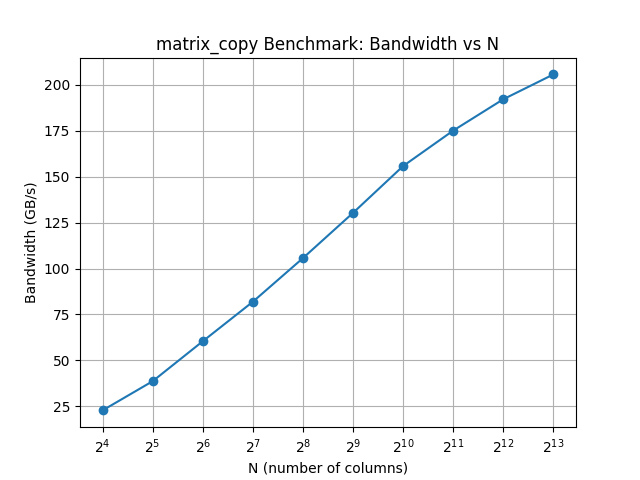
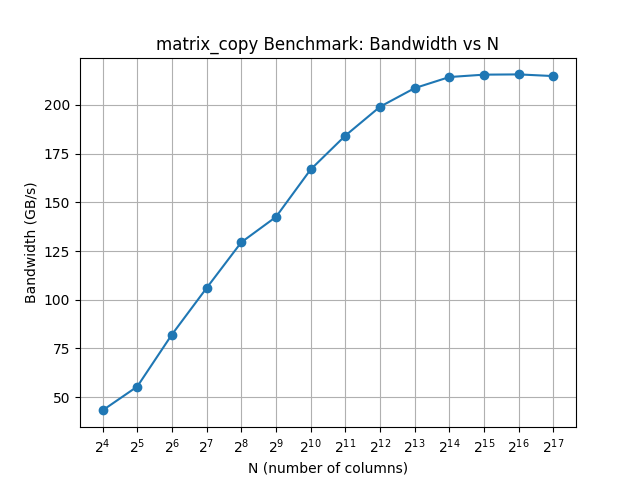
finish week 2

diff --git a/assignments/02_assignment/src/task4.py b/assignments/02_assignment/src/task4.py
@@ -40,10 +40,12 @@ def matrix_copy(A, B, tile_M: ct.Constant[int], tile_N: ct.Constant[int]):
     
     ct.store(B, index=index, tile=A_block)
 
-def main():
-    grid, A, B, tile_M, tile_N = setup()
+def main(**kwargs):
+    grid, A, B, tile_M, tile_N = setup(**kwargs)
     run(grid, A, B, tile_M, tile_N)
     assert torch.allclose(B, A), "Task 4 failed: B does not match A!"
 
 if __name__ == "__main__":
     main()
+    # test with non-power-of-two sizes
+    main(M=2046, N=12)

diff --git a/assignments/02_assignment/src/task4_benchmark.py b/assignments/02_assignment/src/task4_benchmark.py
@@ -4,7 +4,7 @@ from pathlib import Path
 import torch
 
 from task4 import run, setup
-def main(N=[16, 32, 64, 128, 256, 512, 1024, 2048, 4096, 8192], name="", log_scaling=True):
+def main(N=[2**i for i in range (4, 18)], name="", log_scaling=True):
     M = 2048
     dtype = torch.float32
     bandwidths = []

diff --git a/assignments/02_assignment/02_results.md b/assignments/02_assignment/02_results.md
@@ -70,4 +70,4 @@ Benchmarking
 
 ![alt text](../../assignments/02_assignment/src/task4_benchmark_fullrange.png)
 ![alt text](../../assignments/02_assignment/src/task4_benchmark.png)
-Because the bandwidth was still increasing at `N=128`, we included a few more points up to `N=8192` to show the trend more clearly. The bandwidth increases as `N` increases, which is expected because larger matrices allow for better utilization of the GPU's memory bandwidth.
+Because the bandwidth was still increasing at `N=128`, we included a few more points up to `N=2^17=131072` to show the trend more clearly. The bandwidth increases as `N` increases, which is expected because larger matrices allow for better utilization of the GPU's memory bandwidth. At around 2^14 the bandwidth reaches a maximum at ~215 GB/s, probably a hardware limit.

diff --git a/TODO.md b/TODO.md
@@ -12,6 +12,7 @@
 - [ ] formatierung in sphinx gegenchecken?
 - [ ] skelette aufräumen
 - [ ] Projekt schreiben -> Hannes, Falko
+- [ ] git tag für finale abgabe
 
 
 
